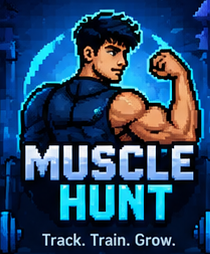
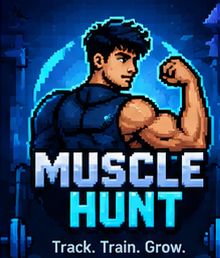
fix(portal): prevent hero image clipping on mobile and use pixel-perfect uncropped assets

diff --git a/frontend/components/member-portal/portal.module.css b/frontend/components/member-portal/portal.module.css
@@ -185,12 +185,15 @@
   align-items: center;
   justify-content: center;
   position: relative;
+  padding: 10px 12px 12px 12px;
 }
 
 .heroArtImage {
   width: 100%;
-  max-height: 260px;
-  object-fit: cover;
+  max-width: 340px;
+  height: auto;
+  display: block;
+  object-fit: contain;
   image-rendering: pixelated;
   image-rendering: -moz-crisp-edges;
   image-rendering: crisp-edges;
